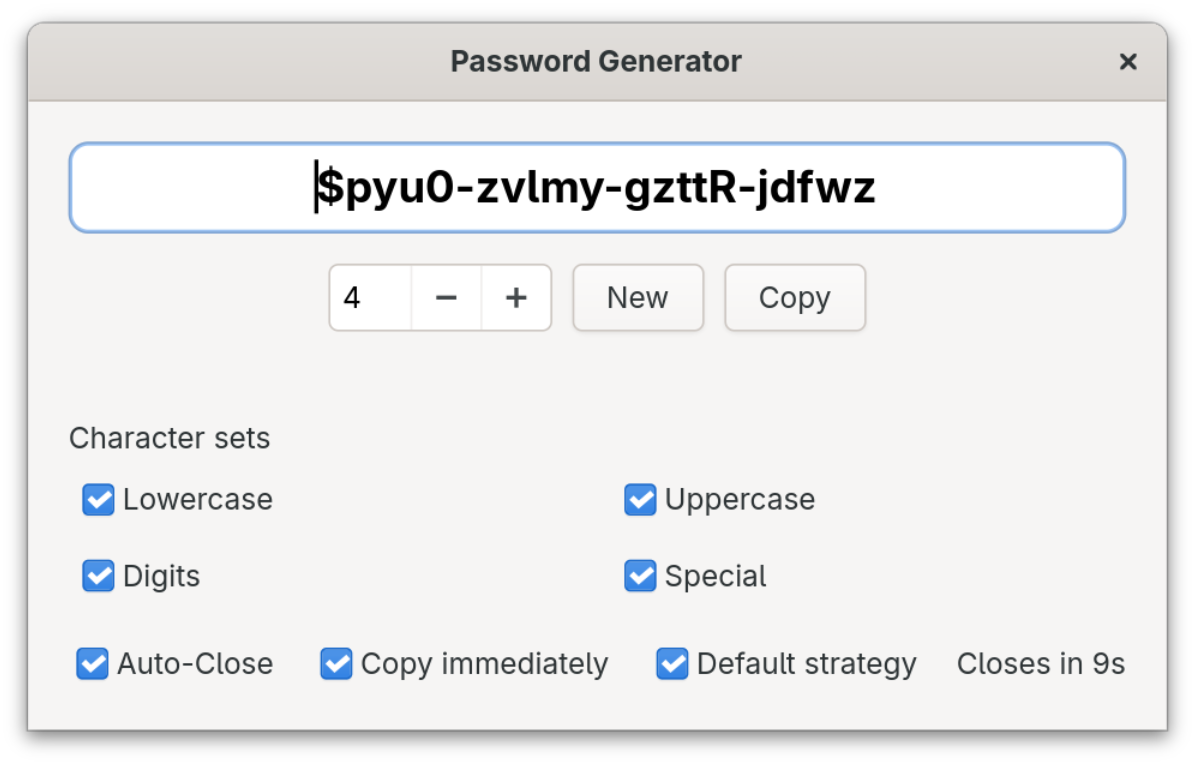
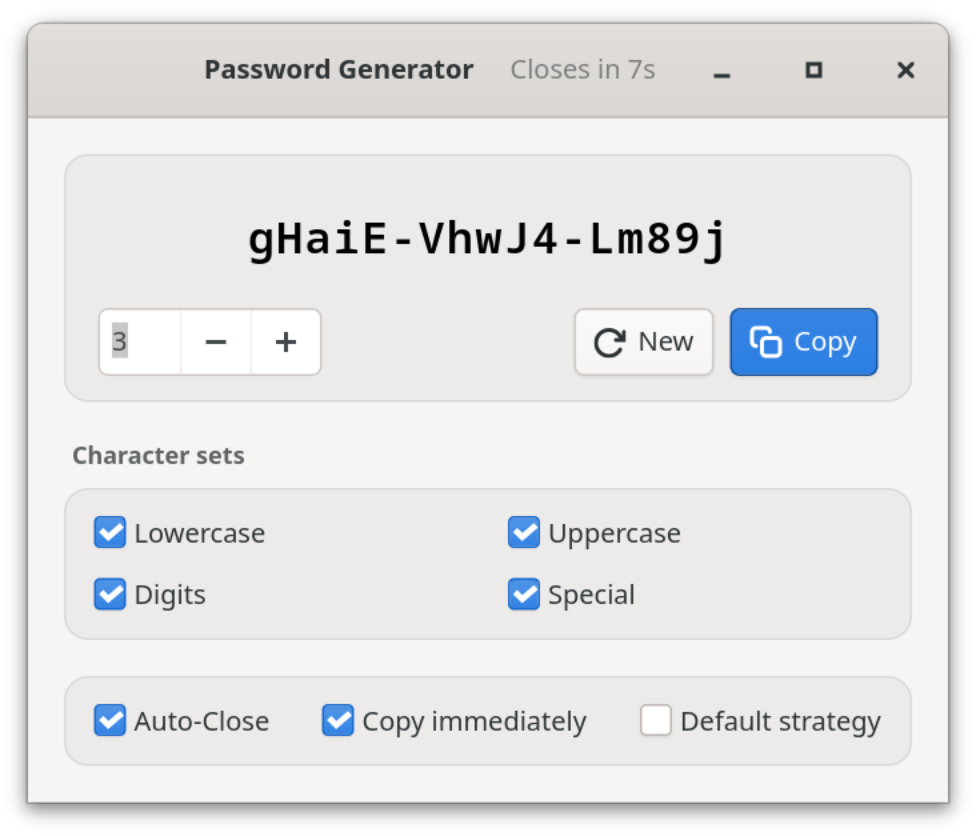
Retake app screenshots in all eight languages (v0.6.4 layout)
Dark and light window shots for en, de, fr, es, it, sv, uk and ja,
taken in a nested gnome-shell (devkit) with default settings and
copy-on-startup enabled. Ukrainian now has its own screenshots, and
the website uses them.

diff --git a/web/uk/index.html b/web/uk/index.html
@@ -18,7 +18,7 @@
 <link rel="alternate" hreflang="x-default" href="https://passwort.dumke.me/">
 <meta property="og:title" content="Генератор паролів — надійні паролі, повністю офлайн">
 <meta property="og:description" content="Нативний застосунок GTK4 для GNOME: криптографічно стійкі паролі, згенеровані локально, — без мережі, без хмари, без телеметрії. На Flathub, вісьмома мовами.">
-<meta property="og:image" content="https://passwort.dumke.me/assets/dark_en.png">
+<meta property="og:image" content="https://passwort.dumke.me/assets/dark_uk.png">
 <meta property="og:url" content="https://passwort.dumke.me/uk/">
 <meta property="og:type" content="website">
 <meta property="og:locale" content="uk_UA">
@@ -89,10 +89,10 @@
 
   <div class="shots">
     <div class="shot reveal">
-      <img src="../assets/dark_en.png" alt="Вікно в темному режимі: пароль, набори символів і параметри">
+      <img src="../assets/dark_uk.png" alt="Вікно в темному режимі: пароль, набори символів і параметри">
     </div>
     <div class="shot shot-small reveal">
-      <img src="../assets/light_en.png" alt="Вікно у світлому режимі">
+      <img src="../assets/light_uk.png" alt="Вікно у світлому режимі">
     </div>
   </div>
 
